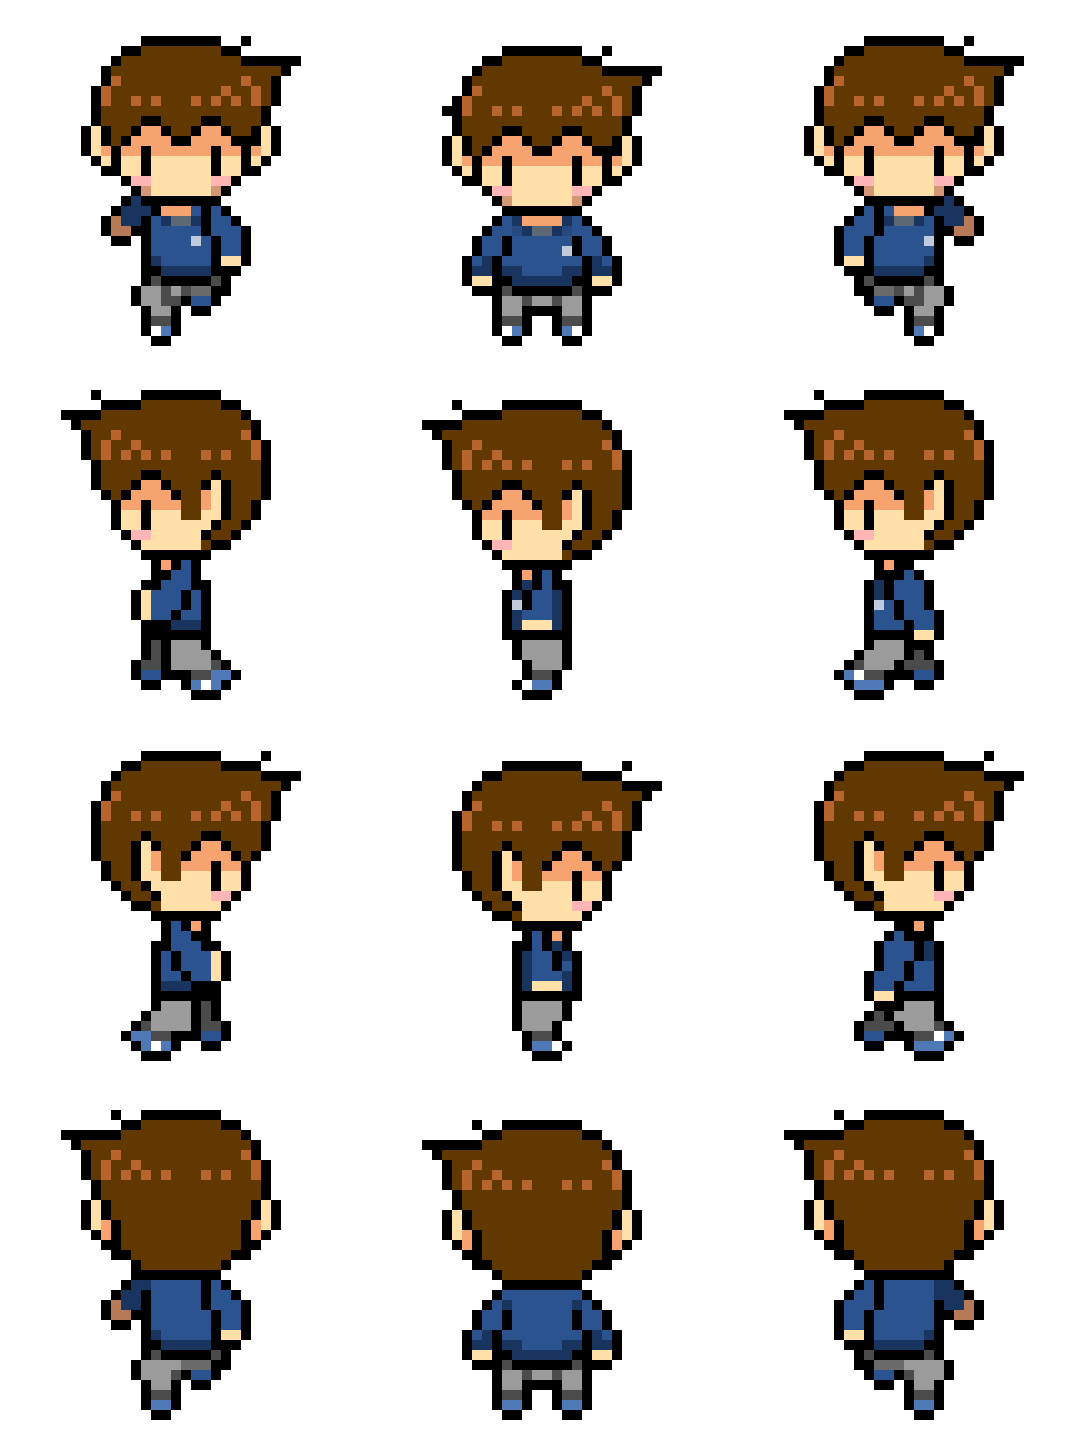
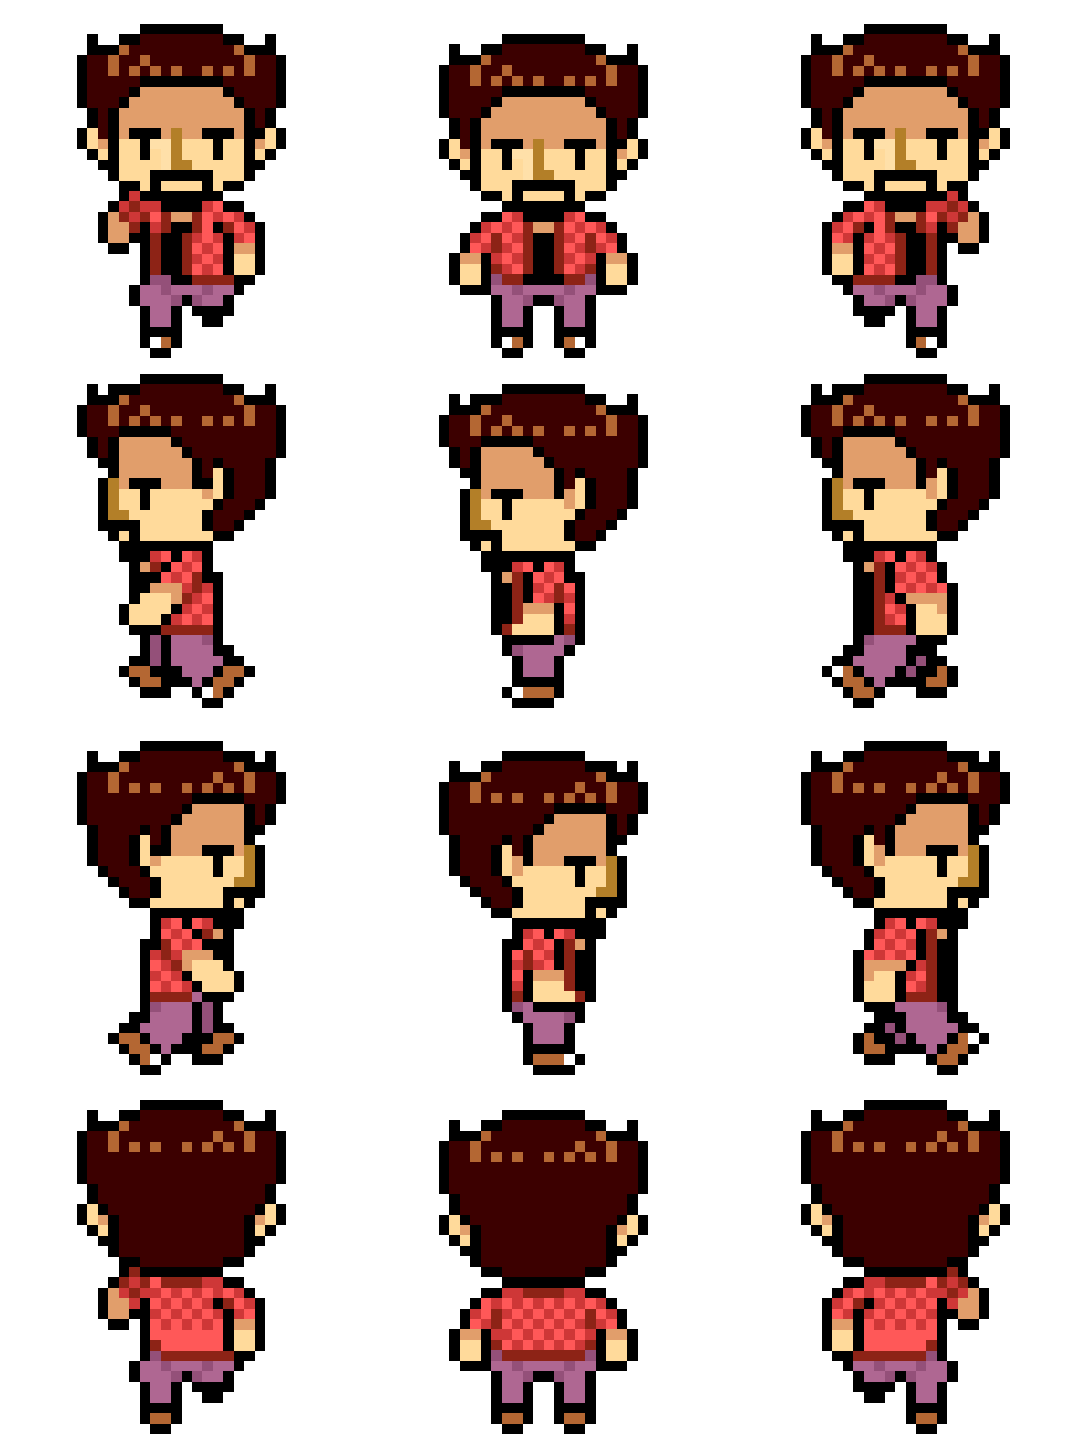
mas mejorass

diff --git a/src/salas/sala1/paredes.js b/src/salas/sala1/paredes.js
@@ -33,9 +33,7 @@ export function crearParedes() {
     abajo: 583,
   };
 
-
-
-    // Bancas de la pantalla del medio (tienen que coincidir con .sala::after en el CSS)
+  // Bancas de la pantalla del medio (tienen que coincidir con .sala::after en el CSS)
   const BANCA_CANTIDAD = 3;
   const BANCA_ANCHO = 210;
   const BANCA_Y = 210;
@@ -56,11 +54,36 @@ export function crearParedes() {
     });
   }
 
+  // Esculturas con pedestal (tienen que coincidir con background-position y
+  // background-size de .sala en el CSS). Los números "visX/ped" son de la
+  // imagen original en px; la función los escala según el alto dibujado.
+  const ESC_ALTO = 130;     // = "auto 130px" del CSS
+  const MARGEN_ESC = 6;     // colchón lateral y arriba
 
+  function colisionEscultura({ x, y, imgAlto, visX0, visX1, pedTop, pedBottom }) {
+    const s = ESC_ALTO / imgAlto;
+    return {
+      x: Math.round(x + visX0 * s - MARGEN_ESC),
+      y: Math.round(y + pedTop * s - MARGEN_ESC),
+      ancho: Math.round((visX1 - visX0) * s + MARGEN_ESC * 2),
+      alto: Math.round((pedBottom - pedTop) * s + MARGEN_ESC),
+    };
+  }
 
-
-
-
+  const esculturas = [
+    // escultura2 (manos): 650px 200px
+    colisionEscultura({
+      x: 650, y: 200,
+      imgAlto: 1284,
+      visX0: 240, visX1: 768, pedTop: 15, pedBottom: 1260,
+    }),
+    // escultura3 (busto): 650px 390px
+    colisionEscultura({
+      x: 650, y: 390,
+      imgAlto: 1320,
+      visX0: 240, visX1: 768, pedTop: 10, pedBottom: 1296,
+    }),
+  ];
 
   const obstaculos = [
     // pared de arriba: ahora recorre todo el mapa, ampliación incluida
@@ -90,9 +113,8 @@ export function crearParedes() {
       alto: PARED_ALTO + MARGEN_ARRIBA,
     },
 
-        ...bancas,
-
-
+    ...bancas,
+    ...esculturas,
   ];
 
   sala.limites = limites;

diff --git a/src/salas/sala1/npcs.js b/src/salas/sala1/npcs.js
@@ -1,15 +1,21 @@
-export function crearNPC(limites, obstaculos = [], obtenerOtros = () => []) {
+export function crearNPC(limites, obstaculos = [], obtenerOtros = () => [], opciones = {}) {
+  const {
+    imagen = "/npcuno.png",
+    x = 700,
+    y = 350,
+  } = opciones;
+
   const npc = document.createElement("div");
   npc.classList.add("npc");
 
-  let posicionX = 700;
-  let posicionY = 350;
+  let posicionX = x;
+  let posicionY = y;
 
   const velocidad = 2;
 
   const tamaño = 30;
 
-  // Obstáculos fijos + cajas de otras entidades (el jugador)
+  // Obstáculos fijos + cajas de otras entidades (el jugador y el otro NPC)
   const todos = () => obstaculos.concat(obtenerOtros());
   const TAMAÑO_VISUAL = 70;
   const OFFSET_VISUAL = (TAMAÑO_VISUAL - tamaño) / 2;
@@ -26,7 +32,7 @@ export function crearNPC(limites, obstaculos = [], obtenerOtros = () => []) {
   let frameCaminataIndex = 0;
   let ultimoCambioFrame = 0;
 
-  npc.style.backgroundImage = "url('/npcuno.png')";
+  npc.style.backgroundImage = `url('${imagen}')`;
   npc.style.width = `${TAMAÑO_VISUAL}px`;
   npc.style.height = `${TAMAÑO_VISUAL}px`;
   npc.style.backgroundSize = `${CELDA * 3 * ESCALA}px ${CELDA * 4 * ESCALA}px`;
@@ -173,6 +179,9 @@ export function crearNPC(limites, obstaculos = [], obtenerOtros = () => []) {
   requestAnimationFrame(loop);
 
   npc.obtenerPosicion = () => ({ x: posicionX, y: posicionY });
+
+  // Caja de colisión, para que otros NPC (y el jugador) lo esquiven
+  npc.obtenerCaja = () => ({ x: posicionX, y: posicionY, ancho: tamaño, alto: tamaño });
 
   return npc;
 }

diff --git a/src/estilos/sala1.css b/src/estilos/sala1.css
@@ -134,6 +134,13 @@ html, body {
   flex-shrink: 0;
 
   background-image:
+
+/* esculturas (arriba de todo) */
+    url('/escultura2.png'),
+    url('/escultura3.png'),
+
+
+
     /* pared de arriba */
     url('/primerobra.png'),
     url('/segundaobra.png'),
@@ -157,6 +164,12 @@ html, body {
     url('/suelo.png');
 
   background-position:
+    
+   /* esculturas: triángulo */
+    650px 200px,   /* escultura2: abajo izquierda */
+    650px 390px,   /* escultura3: abajo derecha, al lado de la 2 */
+
+
     /* pared de arriba (separación pareja de 43.5px) */
     44px 10px,
     182px 10px,
@@ -180,6 +193,12 @@ html, body {
     top left;
 
   background-size:
+
+    auto 130px,
+    auto 130px,
+
+
+
     95px 125px,
     148px 125px,
     91px 125px,
@@ -204,7 +223,6 @@ html, body {
   image-rendering: pixelated;
   overflow: visible;
 }
-
 
 
 /* =========================

diff --git a/src/main.js b/src/main.js
@@ -109,6 +109,3 @@ document.addEventListener("keydown", () => {
     .catch(error => console.error("ERROR DE AUDIO:", error));
 }, { once: true });
 
-
-window.usuario = usuario;
-window.npc = npc;
